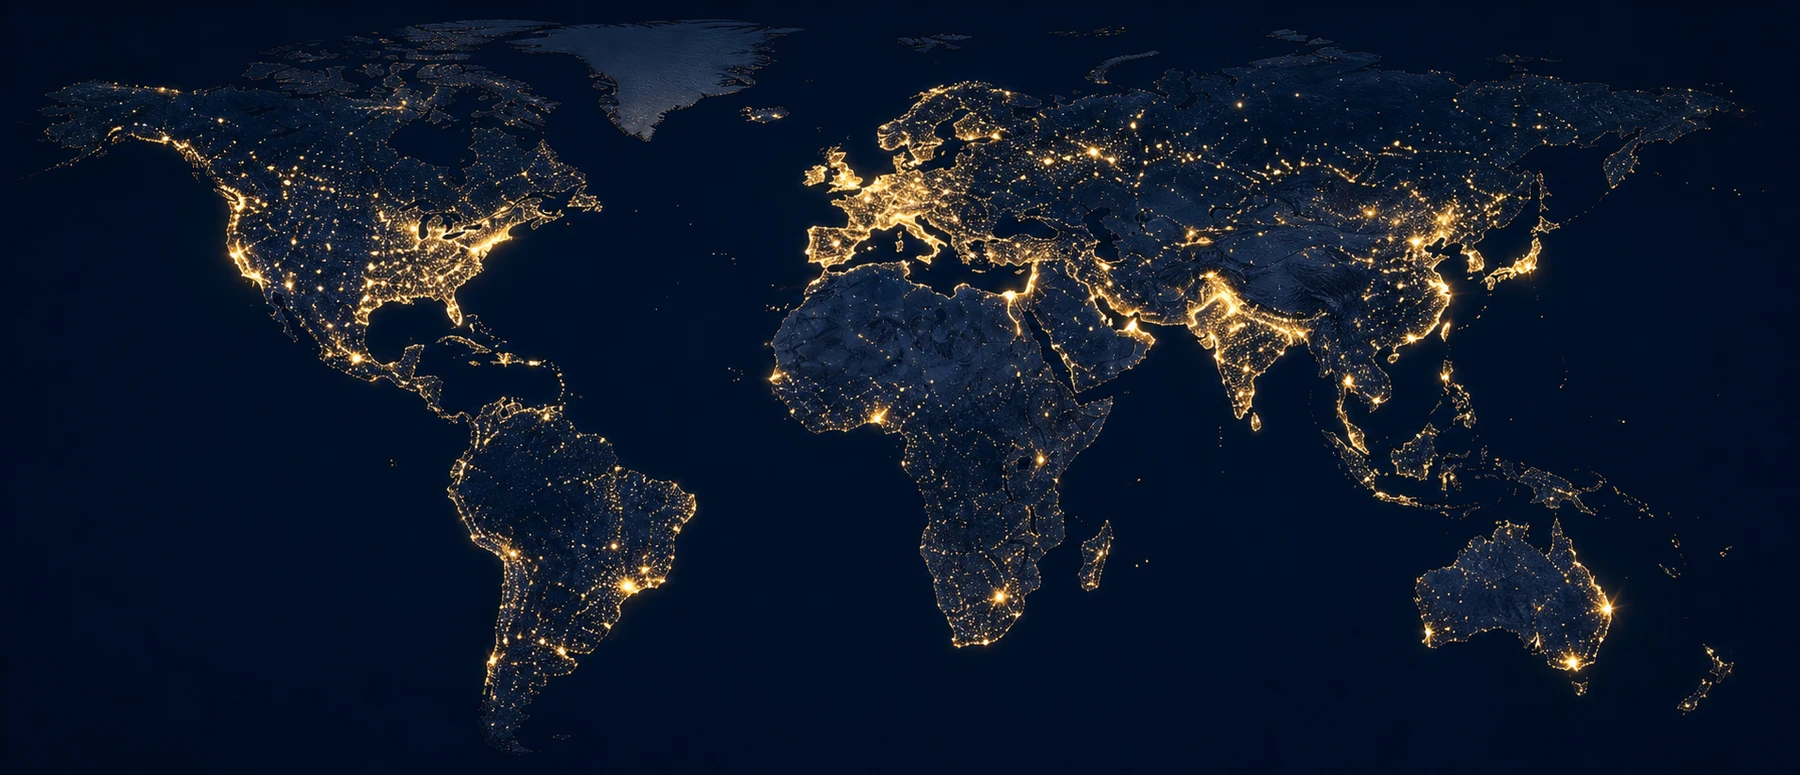
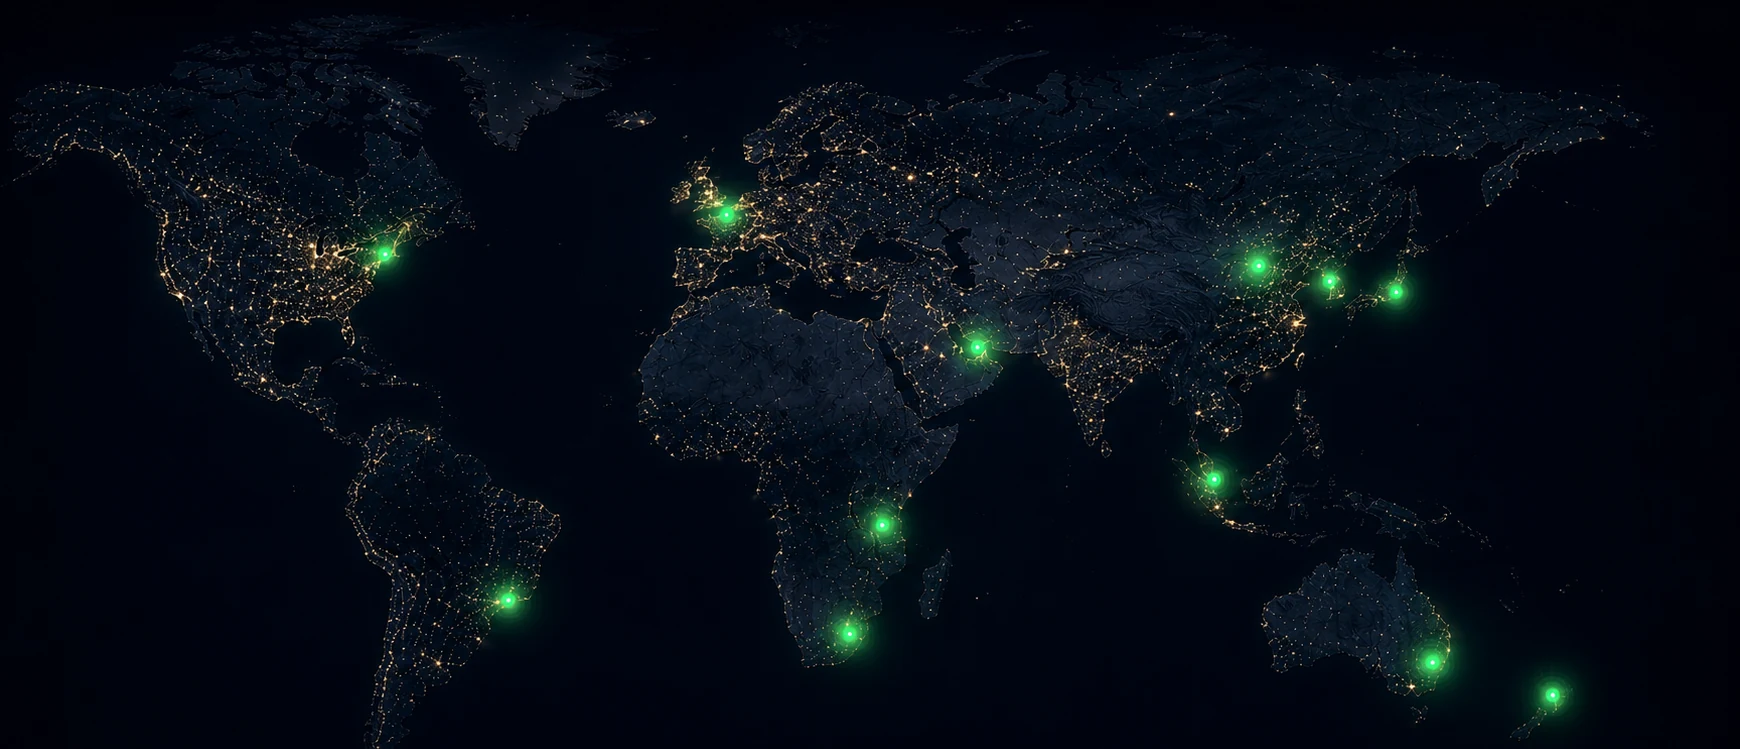
feat: Map Polish

diff --git a/data/company.ts b/data/company.ts
@@ -35,14 +35,14 @@ export const exportMarkets = [
 ] as const;
 
 export const cityLights = [
-  { id: "dubai", left: 61.2, top: 49, delay: 0.4, duration: 4.8, size: 4 },
-  { id: "london-rotterdam", left: 47.6, top: 23.5, delay: 1.1, duration: 5.2, size: 4 },
-  { id: "johannesburg", left: 54.8, top: 79, delay: 2, duration: 4.6, size: 4 },
-  { id: "sao-paulo", left: 35, top: 79, delay: 0.7, duration: 5, size: 4 },
-  { id: "new-york-toronto", left: 28.7, top: 37, delay: 1.8, duration: 4.7, size: 4 },
-  { id: "singapore", left: 76.5, top: 64, delay: 2.6, duration: 5.3, size: 4 },
-  { id: "sydney", left: 89.2, top: 83, delay: 3.2, duration: 4.9, size: 4 },
-  { id: "auckland", left: 95.3, top: 88, delay: 3.9, duration: 5.4, size: 4 },
+  { id: "dubai", left: 56.1, top: 46.5, delay: 0.4, duration: 4.8, size: 5 },
+  { id: "london-rotterdam", left: 41.8, top: 28.5, delay: 1.1, duration: 5.2, size: 5 },
+  { id: "johannesburg", left: 48.8, top: 84.5, delay: 2, duration: 4.6, size: 5 },
+  { id: "sao-paulo", left: 29.3, top: 80.2, delay: 0.7, duration: 5, size: 5 },
+  { id: "new-york-toronto", left: 22.1, top: 34, delay: 1.8, duration: 4.7, size: 5 },
+  { id: "singapore", left: 69.8, top: 64.2, delay: 2.6, duration: 5.3, size: 5 },
+  { id: "sydney", left: 82.3, top: 88.5, delay: 3.2, duration: 4.9, size: 5 },
+  { id: "auckland", left: 89.2, top: 92.7, delay: 3.9, duration: 5.4, size: 5 },
 ] as const;
 
 export const footerLinks = {
